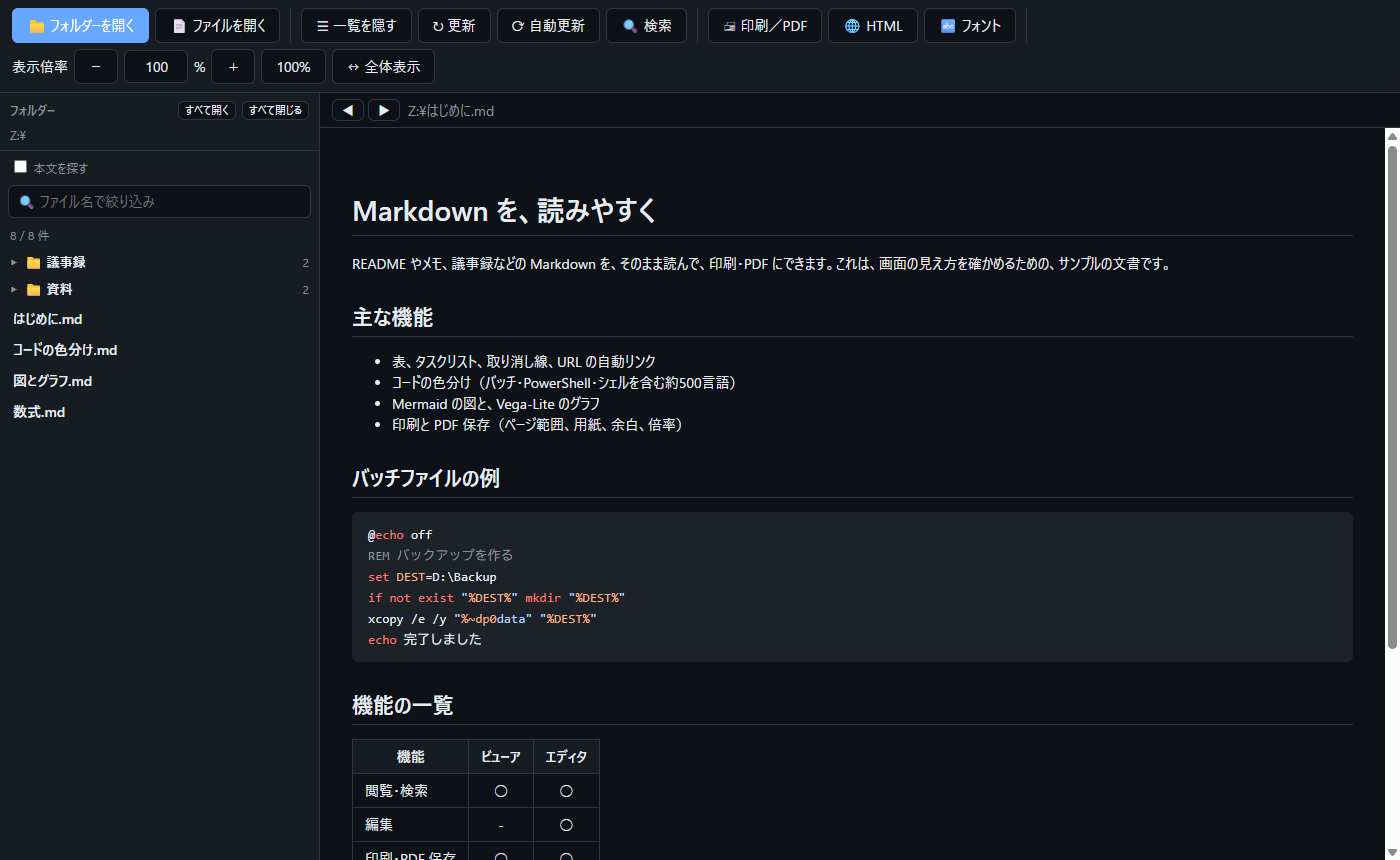
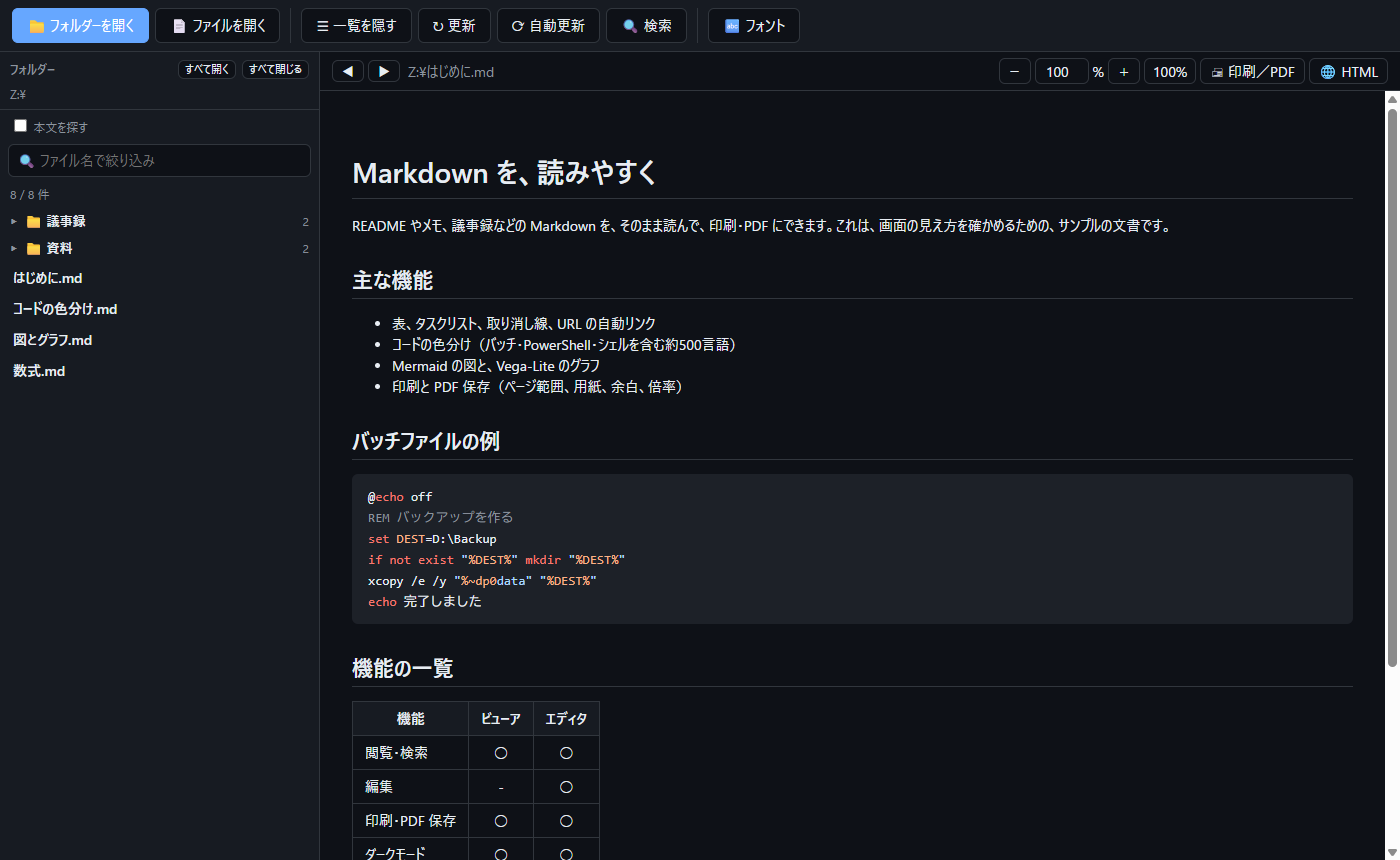
MarkdownViewer: v1.14.0（操作ボタンの配置の見直し）
- 版を 1.14.0 に上げ、更新履歴を追記した
- README のスクリーンショットを、新しい配置で撮り直した

diff --git a/mdviewer.py b/mdviewer.py
@@ -34,7 +34,7 @@ import uiprefs
 from sanitize import sanitize
 
 MD_EXTENSIONS = (".md", ".markdown", ".mdown", ".mkd")
-APP_VERSION = "1.13.0"          # 画面上部（ウィンドウのタイトル）などに出すバージョン。ここだけ書き換える
+APP_VERSION = "1.14.0"          # 画面上部（ウィンドウのタイトル）などに出すバージョン。ここだけ書き換える
 APP_TITLE = f"Handy Markdown Viewer v{APP_VERSION}"
 PROG_ID = "MarkdownViewer.File"
 SKIP_DIRS = {".git", "node_modules", "__pycache__", ".venv", "venv"}
